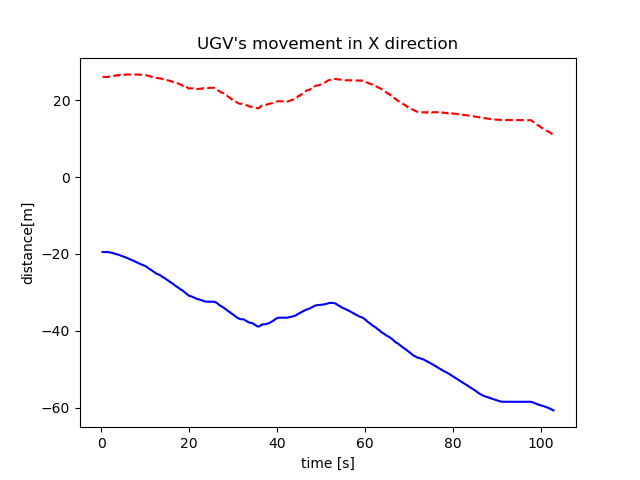
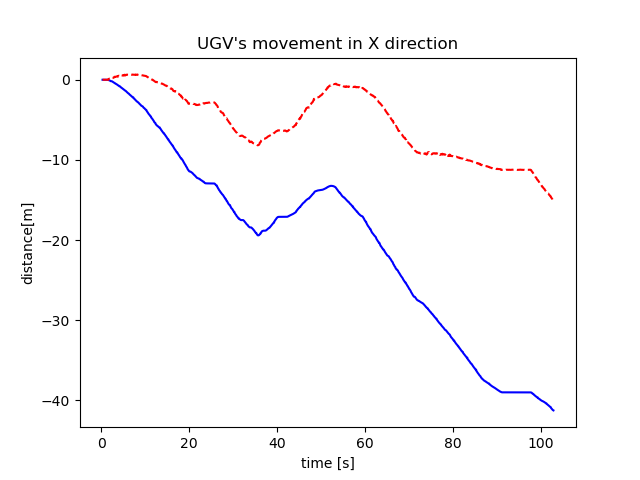
origin

diff --git a/nodes/tf_reader.py b/nodes/tf_reader.py
@@ -100,8 +100,8 @@ def create_graph_x_coord_and_time(icp_x, imu_x, saved_times):
     plt.xlabel('time [s]')
     plt.ylabel('distance[m]')
     plt.title("UGV's movement in X direction")
-    ax.plot(saved_times, imu_x, color='blue')
-    ax.plot(saved_times, icp_x, color='red', linestyle='--')
+    ax.plot(saved_times, move_coordinates_to_the_origin(imu_x), color='blue')
+    ax.plot(saved_times, move_coordinates_to_the_origin(icp_x), color='red', linestyle='--')
     plt.savefig(output_path)
     plt.close()
 
@@ -112,8 +112,8 @@ def create_graph_y_coord_and_time(icp_y, imu_y, saved_times):
     plt.xlabel('time [s]')
     plt.ylabel('distance[m]')
     plt.title("UGV's movement in Y direction")
-    ax.plot(saved_times, imu_y, color='blue')
-    ax.plot(saved_times, icp_y, color='red', linestyle='--')
+    ax.plot(saved_times, move_coordinates_to_the_origin(imu_y), color='blue')
+    ax.plot(saved_times, move_coordinates_to_the_origin(icp_y), color='red', linestyle='--')
     plt.savefig(output_path)
     plt.close()
 
@@ -124,8 +124,8 @@ def create_graph_z_coord_and_time(icp_z, imu_z, saved_times):
     plt.xlabel('time [s]')
     plt.ylabel('distance[m]')
     plt.title("UGV's movement in Z direction")
-    ax.plot(saved_times, imu_z, color='blue')
-    ax.plot(saved_times, icp_z, color='red', linestyle='--')
+    ax.plot(saved_times, move_coordinates_to_the_origin(imu_z), color='blue')
+    ax.plot(saved_times, move_coordinates_to_the_origin(icp_z), color='red', linestyle='--')
     plt.savefig(output_path)
     plt.close()
 
@@ -139,13 +139,8 @@ def create_graph_distance_and_time(icp_x, icp_y, icp_z, imu_x, imu_y, imu_z, sav
     icp_x = np.array(icp_x)
     icp_y = np.array(icp_y)
     icp_z = np.array(icp_z)
-    # icp_distances_x = np.abs(icp_x[1:] - icp_x[:-1])
-    # icp_distances_y = np.abs(icp_y[1:] - icp_y[:-1])
-    # icp_distances_z = np.abs(icp_z[1:] - icp_z[:-1])
-    # icp_dist_x = []
-    # for i in range(0, len(icp_distances_x) - 1):
-    #     icp_dist_x[i] = np.sum(icp_distances_x[:i + 1])
-    # print(icp_dist_x)
+    icp_dists_x = np.abs(icp_x[1:] - icp_x[:-1])
+    print(icp_dists_x[0], saved_times[0])
     ax.plot(saved_times, imu_z, color='blue')
     ax.plot(saved_times, icp_z, color='red', linestyle='--')
     plt.savefig(output_path)
@@ -156,3 +151,7 @@ def z_coord_transform_for_color(coord_z):
     coord_z += abs(np.min(coord_z))
     colors = np.log1p(coord_z)
     return colors
+
+
+def move_coordinates_to_the_origin(coordinates):
+    return np.array(coordinates) - coordinates[0]
